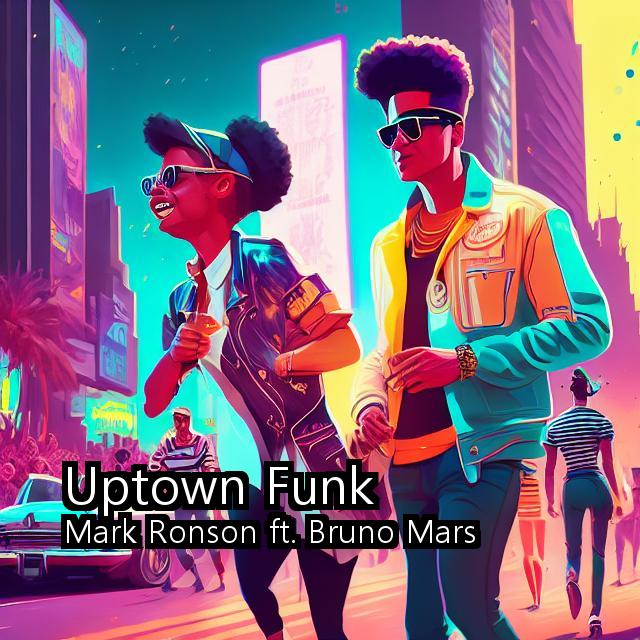
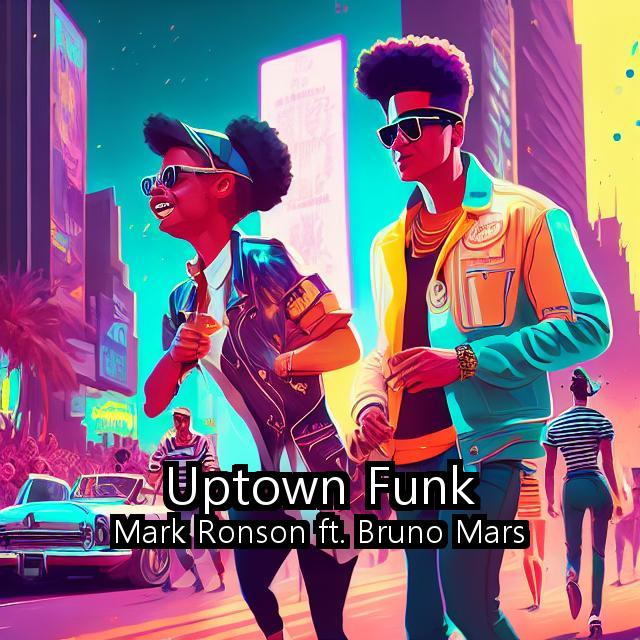
글자 크기 조정하기

Changed region(s): [[0.0938, 0.7188, 0.8438, 0.875]]

diff --git a/008_video_generation/sec_01/album_cover_practice_v02.py b/008_video_generation/sec_01/album_cover_practice_v02.py
@@ -1,0 +1,102 @@
+from PIL import Image, ImageDraw, ImageFont
+import os
+
+def add_info_to_file_path(file_path, info_string):
+    # 파일의 기본 이름과 확장자 분리
+    base_name, file_extension = os.path.splitext(file_path)
+
+    # 새로운 파일 경로 생성
+    new_file_path = f"{base_name}{info_string}{file_extension}"
+
+    return new_file_path
+
+def add_text_border(draw, text, position, font, fill, border_width, border_color):
+    x, y = position
+    for x_offset in range(-border_width, border_width + 1):
+        for y_offset in range(-border_width, border_width + 1):
+            draw.text((x + x_offset, y + y_offset), text, font=font, fill=border_color)
+    
+    draw.text((x, y), text, font=font, fill=fill)
+
+def create_album_art(image_path, title, artist, output_path='__info'):
+    # 이미지 열기
+    album_art = Image.open(image_path)
+
+    # 이미지 크기 얻기
+    width, height = album_art.size
+
+    # 폰트 및 크기 설정
+    font_size_title = int(min(width, height) * 0.08)
+    font_size_artist = int(min(width, height) * 0.05)
+
+    # Windows
+    title_font = ImageFont.truetype("malgun.ttf", font_size_title)
+    artist_font = ImageFont.truetype("malgun.ttf", font_size_artist)
+
+    # Mac
+    # title_font = ImageFont.truetype("/Library/Fonts/Supplemetal/AppleGothic.ttf", font_size_title)
+    # artist_font = ImageFont.truetype("/Library/Fonts/Supplemetal/AppleGothic.ttf", font_size_artist)
+
+    # 이미지에 텍스트 추가
+    draw = ImageDraw.Draw(album_art)
+
+    
+    # 제목 및 아티스트 텍스트의 검은색 테두리를 추가
+    outline_color = (0, 0, 0)  # 검은색
+
+    # 텍스트의 위치 조정
+    outline_width = int(width * 0.01)  # 테두리 두께 조정
+
+    # 텍스트가 이미지 폭을 초과하지 않도록 조정
+    max_text_width = width * 0.9  # 이미지 폭의 90%
+    
+    while title_font.getlength(title) > max_text_width:
+        font_size_title -= 1
+        title_font = ImageFont.truetype("malgun.ttf", font_size_title)
+        
+    while artist_font.getlength(artist) > max_text_width:
+        font_size_artist -= 1
+        artist_font = ImageFont.truetype("malgun.ttf", font_size_artist)
+
+    # 제목 위치 및 색상 설정
+    title_width = title_font.getlength(title)
+    title_x = width * 0.5 - title_width * 0.5
+    title_y = height * 0.7
+    title_color = (255, 255, 255)  # 흰색
+
+    # 아티스트 위치 및 색상 설정
+    artist_width = artist_font.getlength(artist)
+    artist_x = width * 0.5 - artist_width * 0.5
+    artist_y = title_y + font_size_title + height * 0.015
+    artist_color = (255, 255, 255)  # 흰색
+
+    # 제목 텍스트와 테두리 추가
+    add_text_border(draw, title, (title_x, title_y), title_font, title_color, outline_width, outline_color)
+
+    # 아티스트 텍스트와 테두리 추가
+    add_text_border(draw, artist, (artist_x, artist_y), artist_font, artist_color, outline_width, outline_color)
+
+    output_path = add_info_to_file_path(image_path, '__info')
+
+    # 결과 이미지 저장
+    album_art.save(output_path)
+
+
+if __name__ == '__main__':
+    create_album_art(
+        "./dreamlike_diffusion/Uptown_Funk_Mark_Ronson_ft._Bruno_Mars.jpg", 
+        "Uptown Funk", 
+        "Mark Ronson ft. Bruno Mars", 
+    )
+
+    # create_album_art(
+    #     "dreamlike_diffusion\Boy_With_Luv_방탄소년단_ft._Halsey.jpg",
+    #     "Boy With Luv",
+    #     "방탄소년단 ft. Halsey"
+    # )
+    
+    # create_album_art(
+    #     "C:\github\gpt_api_powered_dj\dreamlike_diffusion\내_마음에_주단을_깔고_신해철.jpg",
+    #     "내 마음에 주단을 깔고 (KBS 열림음악회 버전)",
+    #     "산울림, YB, 시나위, BTS, 르세라핌, 노사연, 김종서"
+    # )
